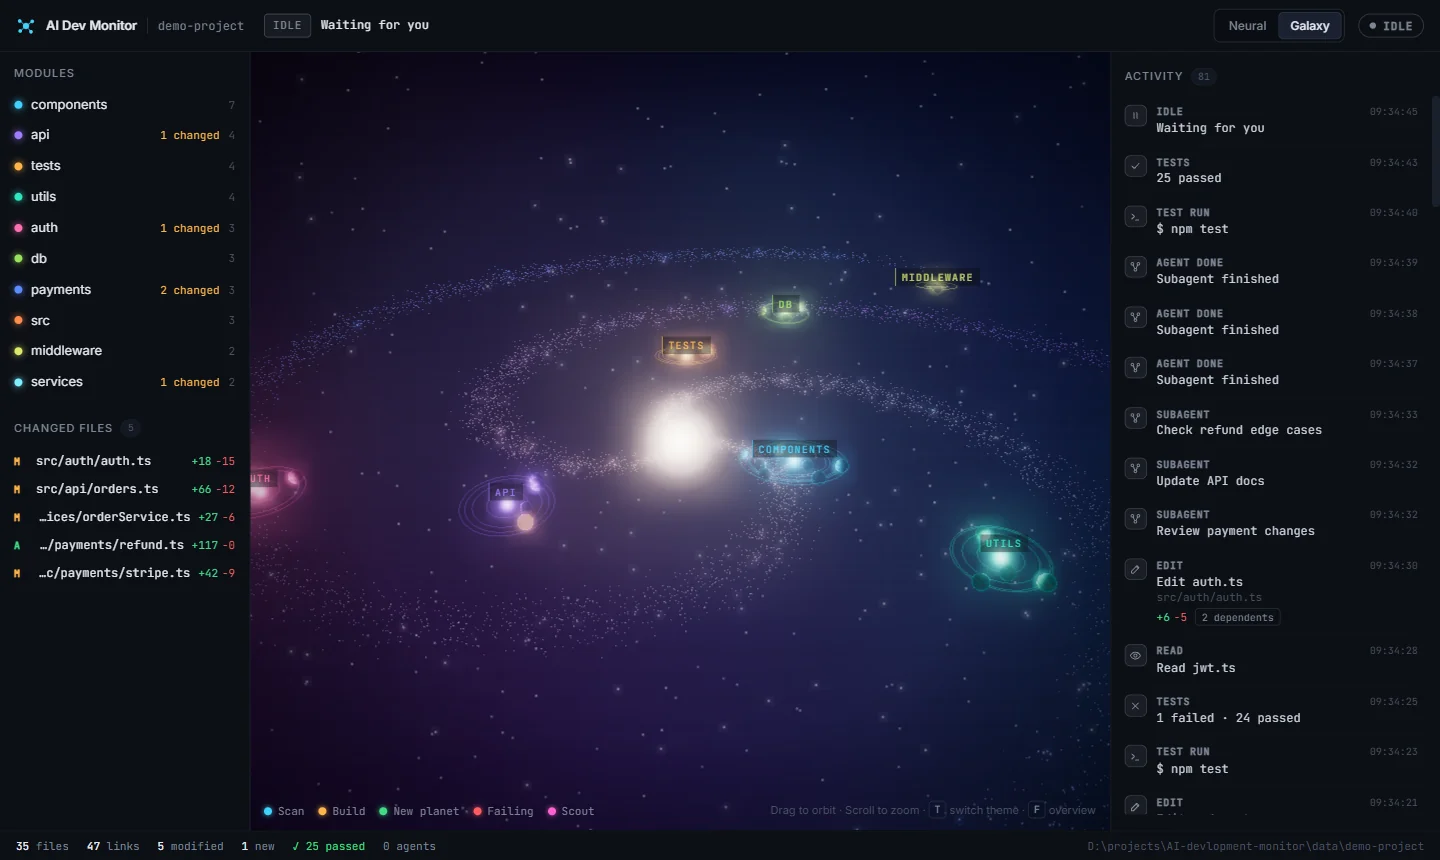
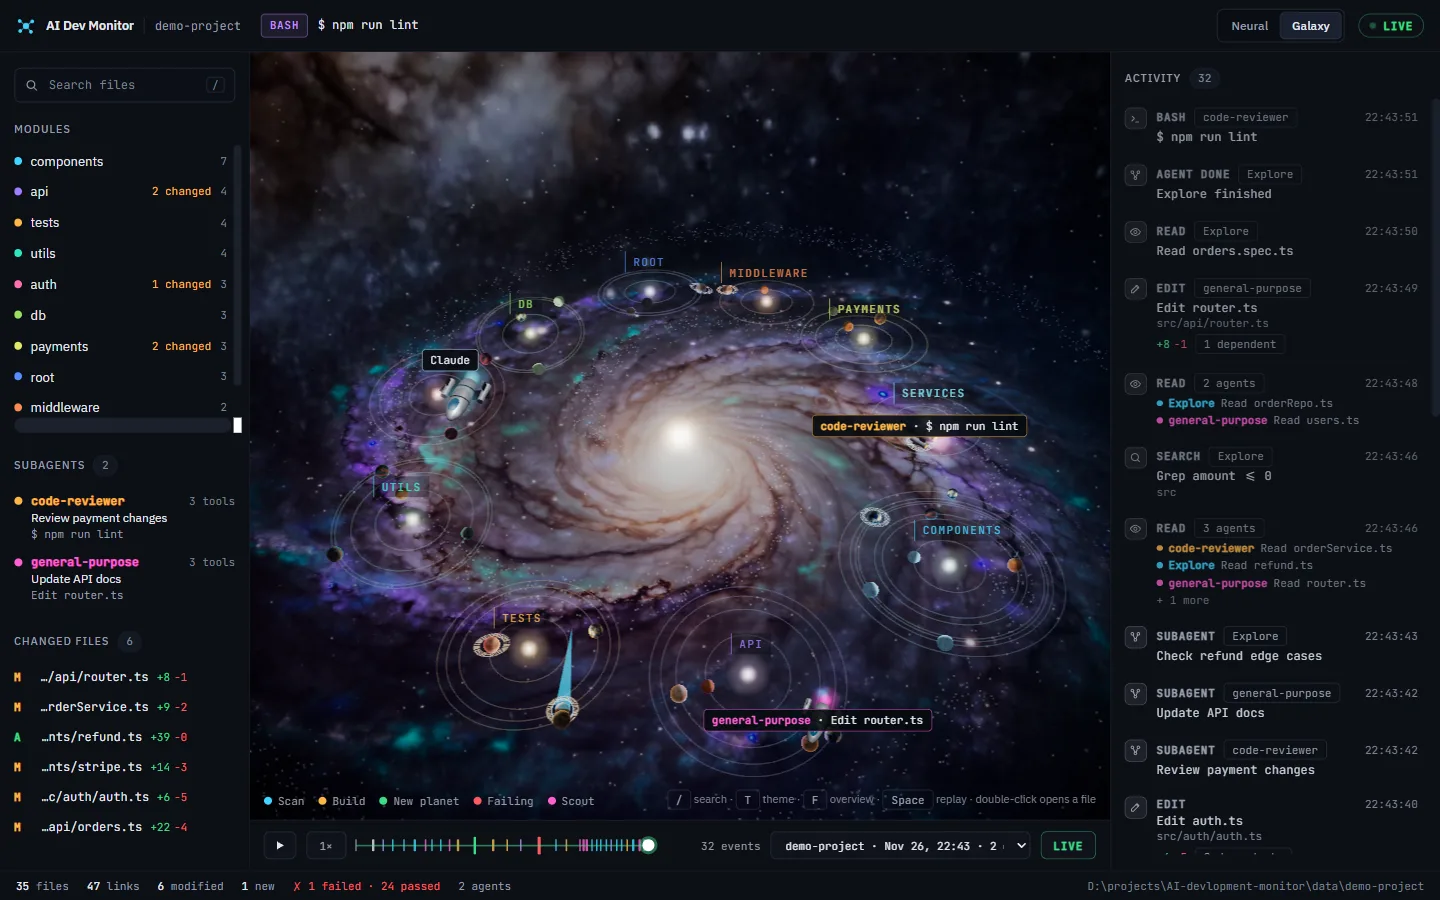
Neural: keep small projects compact; refresh README screenshots
With one module per top folder (small projects), every module got the
wide 26-unit lane meant between top-folder regions, so the network looked
sparse. Wide lanes now only separate real top-folder regions.

New screenshots of the built-in demo project: Neural, the photographic
Galaxy overview and close-up, and eight parallel subagents.

diff --git a/web/themes/neural.js b/web/themes/neural.js
@@ -37,7 +37,7 @@ export class NeuralTheme {
   build(model) {
     this.model = model;
     const positions = layout(model);
-    this.radius = Math.max(30, layout.extent * 0.85); // camera distance, labels and effects follow the real size
+    this.radius = Math.max(22, layout.extent * 0.85); // camera distance, labels and effects follow the real size
     this.home.position.set(0, this.radius * 1.7, this.radius * 1.6); // high angle: regions read like a map
 
     this.sky = skySphere('sky_neural', 5200, 0x1a1e26); // dim: big bokeh blobs must not compete with the nodes; follows the camera
@@ -562,9 +562,13 @@ function layout(model) {
   for (const [t, ms] of groups) {
     const items = ms.map((m) => ({ key: m, r: ballR(model.modules.get(m).files.length) }));
     const packed = shelfPack(items, 7);
-    regions.push({ key: t, r: Math.max(packed.halfW, packed.halfD) + 6, packed });
+    regions.push({ key: t, r: Math.max(packed.halfW, packed.halfD), packed });
   }
-  const top = shelfPack(regions.map((g) => ({ key: g.key, r: g.r, w: g.packed.halfW + 6, d: g.packed.halfD + 6 })), 26);
+  // wide lanes only between real top-folder regions; when every module is its own top folder
+  // (a small project) the modules sit close together like one brain
+  const grouped = groups.size < mods.length;
+  const pad = grouped ? 6 : 0;
+  const top = shelfPack(regions.map((g) => ({ key: g.key, r: g.r, w: g.packed.halfW + pad, d: g.packed.halfD + pad })), grouped ? 26 : 9);
   for (const g of regions) {
     const c = top.pos.get(g.key);
     for (const [m, p] of g.packed.pos) {
